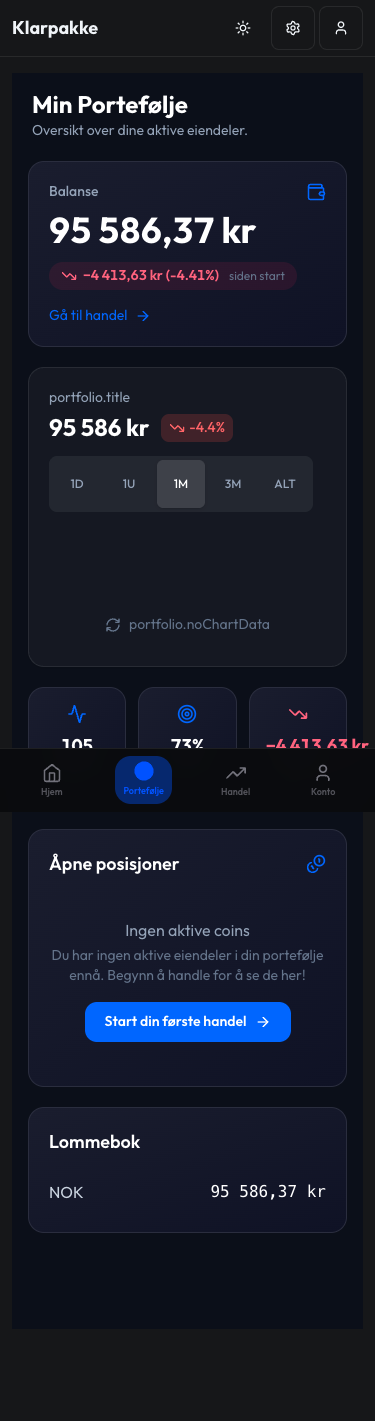
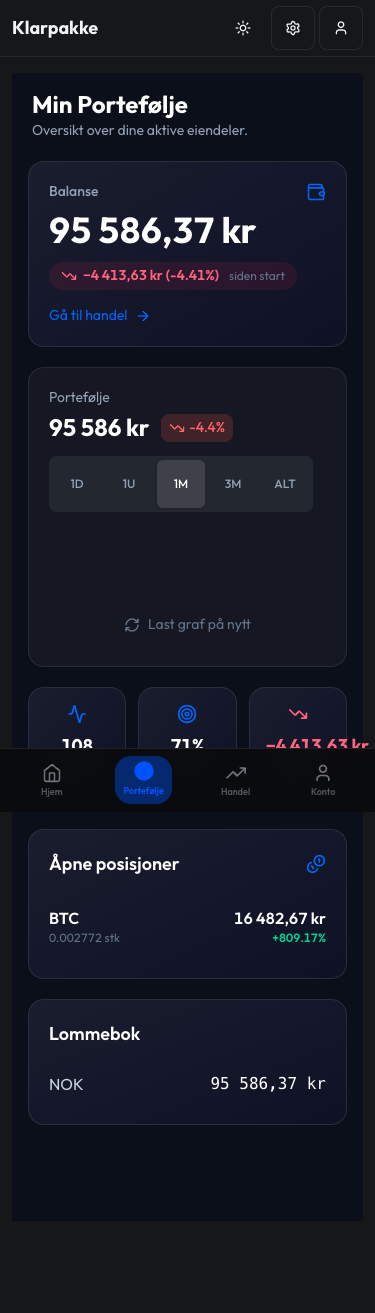
fix: «Se rangering →» + JokerTrade CTA — byttet m.div+a til Next.js Link
AdaptiveDashboard PowerUserView: to CTA-kort brukte Framer Motion m.div wrapper med plain <a>-tag. m.div-animasjonene kunne fange klikk-events. Byttet til <Link> + prefetch={false} + block-display — hele kortet er nå ett klikkbart element. Client-side navigation uten full page reload.

diff --git a/src/features/dashboard/AdaptiveDashboard.tsx b/src/features/dashboard/AdaptiveDashboard.tsx
@@ -3,6 +3,7 @@
 import { m, AnimatePresence } from "framer-motion";
 import { useLocale, useTranslations } from "next-intl";
 import { TrendingUp, BarChart3, Wallet } from "lucide-react";
+import Link from "next/link";
 import type { UserState } from "@/hooks/useUserState";
 import { SimplifiedHero } from "./SimplifiedHero";
 import { StatsGrid } from "@/features/portfolio/StatsGrid";
@@ -230,11 +231,10 @@ function PowerUserView(props: Omit<AdaptiveDashboardProps, "userState" | "userNa
       <ActiveTraderView {...props} />
 
       {/* Extra power-user CTA */}
-      <m.div
-        initial={{ opacity: 0, y: 12 }}
-        animate={{ opacity: 1, y: 0 }}
-        transition={{ delay: 0.4 }}
-        className="glass-card p-4 border-amber-500/20 hover:border-amber-500/30 transition-all duration-200"
+      <Link
+        href={`/${locale}/leaderboard`}
+        prefetch={false}
+        className="block glass-card p-4 border-amber-500/20 hover:border-amber-500/30 transition-all duration-200"
       >
         <div className="flex items-center justify-between gap-4">
           <div>
@@ -245,21 +245,19 @@ function PowerUserView(props: Omit<AdaptiveDashboardProps, "userState" | "userNa
               {t("leaderboardDesc")}
             </p>
           </div>
-          <a
-            href={`/${locale}/leaderboard`}
+          <span
             className="shrink-0 rounded-lg bg-amber-500/20 px-3 py-1.5 text-xs font-medium text-amber-300 hover:bg-amber-500/30 transition-colors"
           >
             {t("leaderboardCta")}
-          </a>
+          </span>
         </div>
-      </m.div>
+      </Link>
 
       {/* JokerTrade CTA — sekundær, under folden (progressive disclosure) */}
-      <m.div
-        initial={{ opacity: 0, y: 12 }}
-        animate={{ opacity: 1, y: 0 }}
-        transition={{ delay: 0.45 }}
-        className="glass-card p-4 border-amber-500/30 hover:border-amber-500/40 transition-all duration-200"
+      <Link
+        href={`/${locale}/jokertrade`}
+        prefetch={false}
+        className="block glass-card p-4 border-amber-500/30 hover:border-amber-500/40 transition-all duration-200"
       >
         <div className="flex items-center justify-between gap-4">
           <div>
@@ -270,14 +268,13 @@ function PowerUserView(props: Omit<AdaptiveDashboardProps, "userState" | "userNa
               {t("jokerTradeDesc")}
             </p>
           </div>
-          <a
-            href={`/${locale}/jokertrade`}
+          <span
             className="btn-gold text-xs px-3 py-1.5"
           >
             {t("jokerTradeCta")}
-          </a>
+          </span>
         </div>
-      </m.div>
+      </Link>
     </div>
   );
 }
